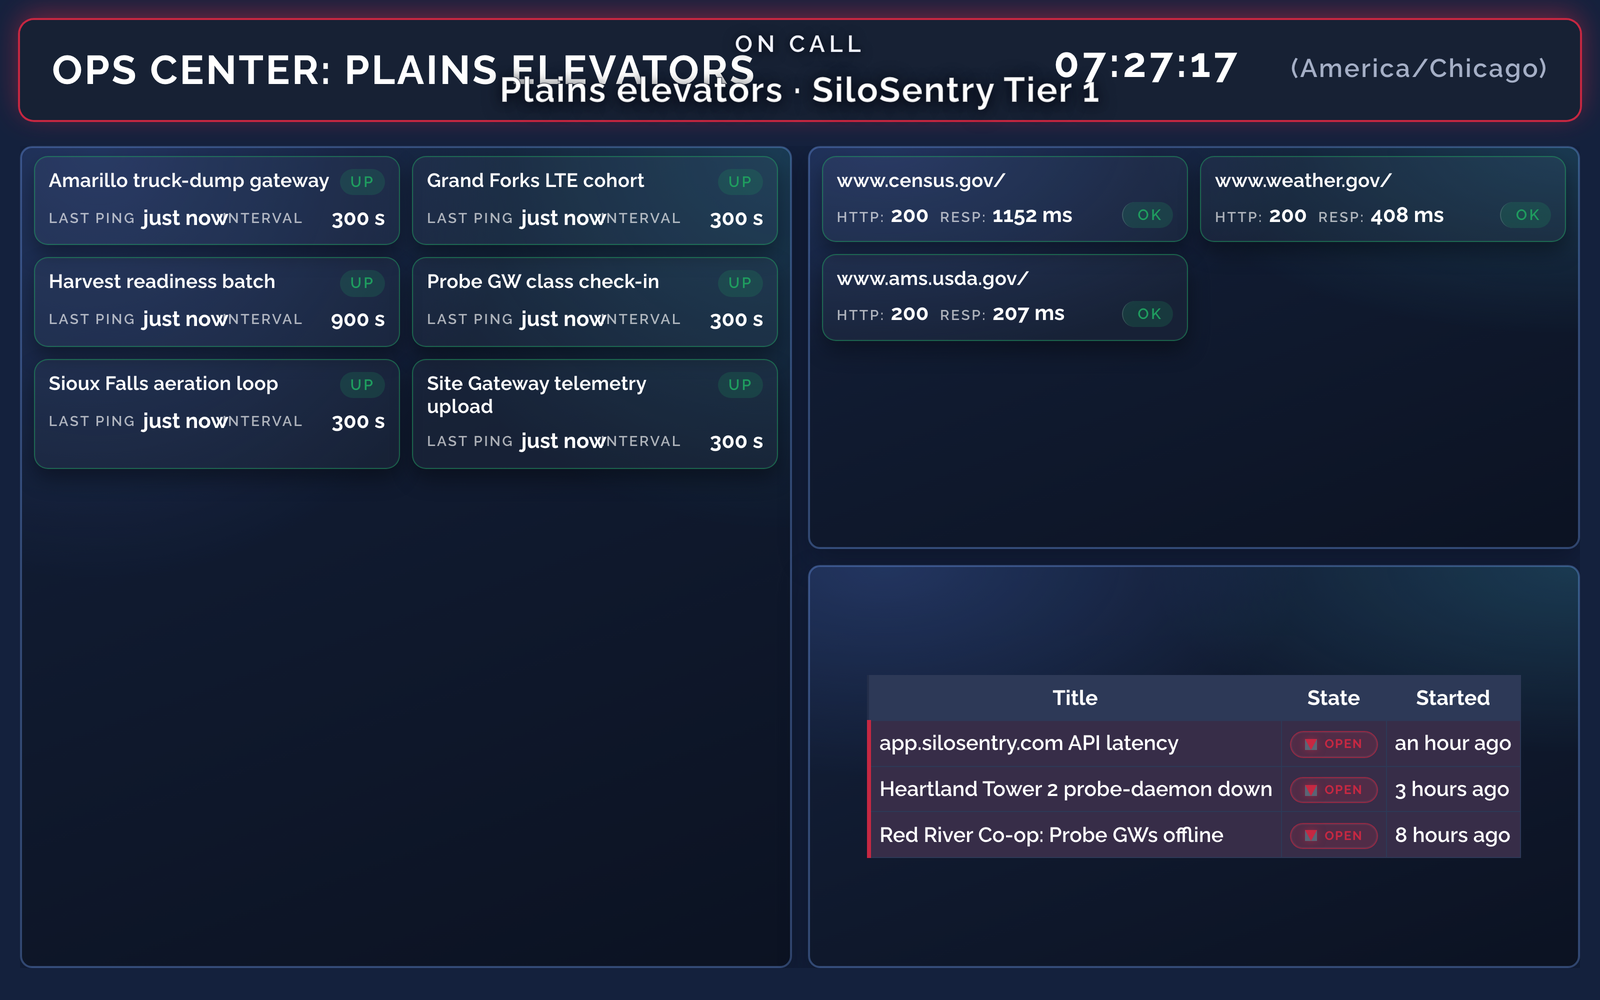
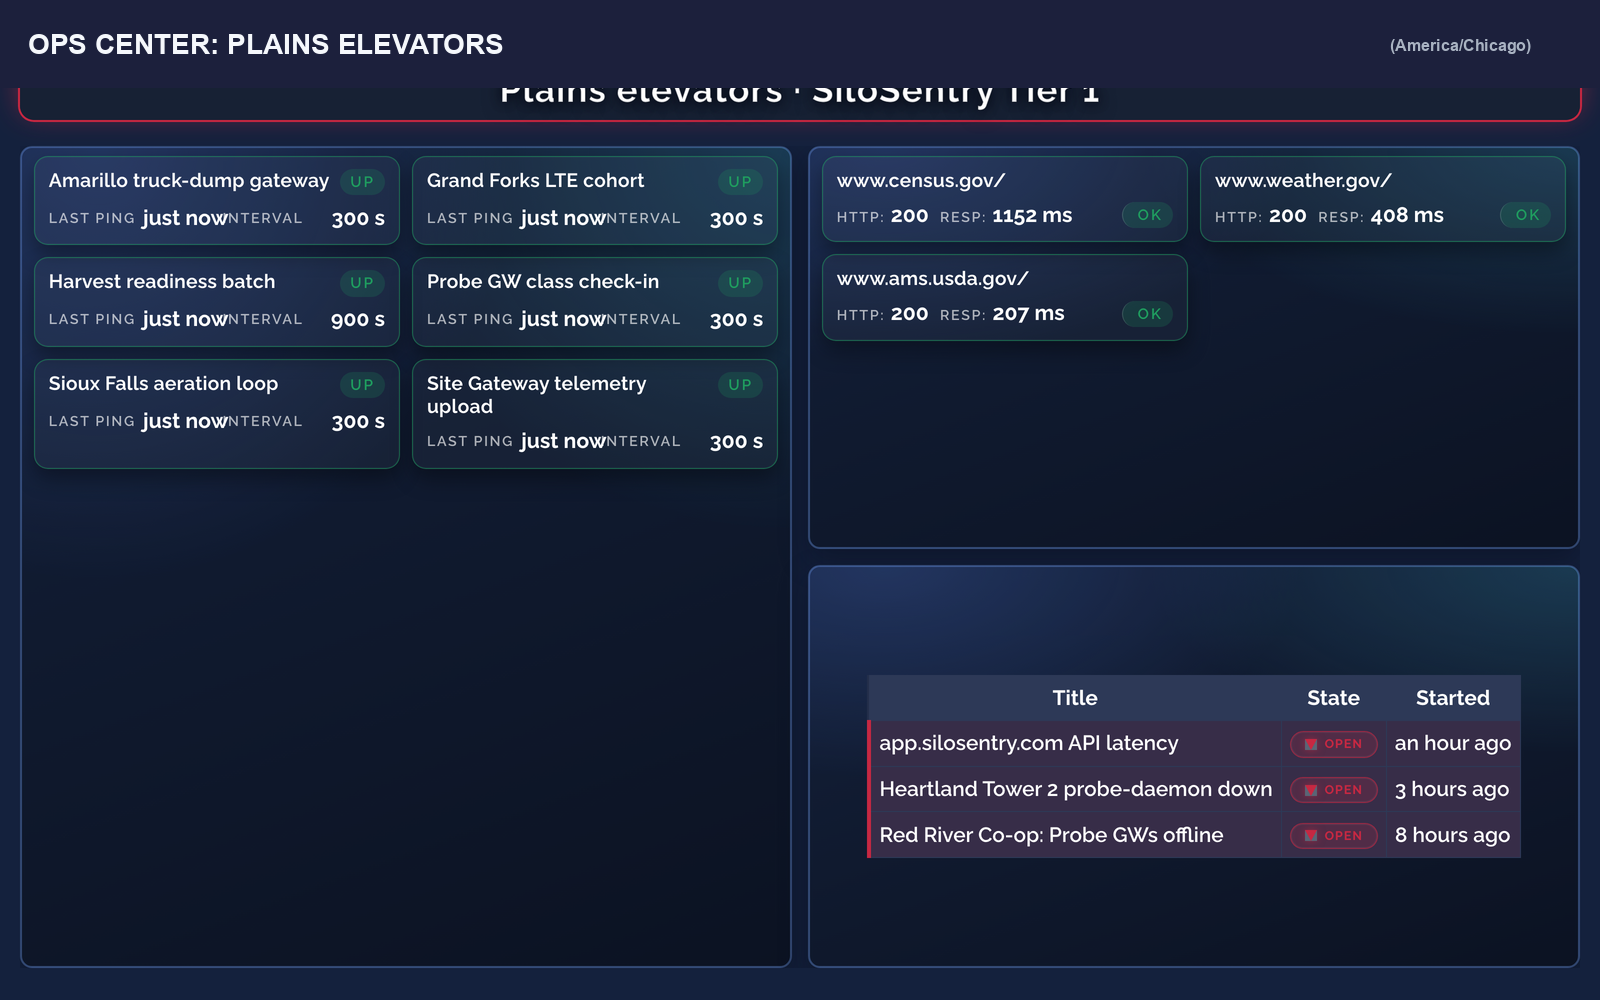
Fix marketing nav scroll and clean terminal/ops screenshots.
Sticky-header-aware in-page anchors, drop the cramped on-call strip from the ops wall shot, and replace the offline/Pingüino terminal capture with a clean shell view.

Changed region(s): [[0.0, 0.0, 1.0, 0.093]]

diff --git a/script.js b/script.js
@@ -95,6 +95,37 @@
 })();
 
 (() => {
+  // Sticky header: in-page nav should land below .top, not under it.
+  function headerOffset() {
+    const top = document.querySelector(".top");
+    return (top ? top.getBoundingClientRect().height : 0) + 8;
+  }
+
+  function scrollToHash(hash, { updateHistory = true } = {}) {
+    if (!hash || hash === "#") return false;
+    const id = decodeURIComponent(hash.replace(/^#/, ""));
+    const target = document.getElementById(id);
+    if (!target) return false;
+    const top = Math.max(0, window.scrollY + target.getBoundingClientRect().top - headerOffset());
+    window.scrollTo({ top, behavior: window.matchMedia("(prefers-reduced-motion: reduce)").matches ? "auto" : "smooth" });
+    if (updateHistory && window.location.hash !== `#${id}`) {
+      history.pushState(null, "", `#${id}`);
+    }
+    return true;
+  }
+
+  document.querySelectorAll('a[href^="#"]').forEach((link) => {
+    link.addEventListener("click", (event) => {
+      const href = link.getAttribute("href");
+      if (!href || href === "#") return;
+      if (scrollToHash(href)) event.preventDefault();
+    });
+  });
+
+  window.addEventListener("load", () => {
+    if (window.location.hash) scrollToHash(window.location.hash, { updateHistory: false });
+  });
+
   const reduce = window.matchMedia("(prefers-reduced-motion: reduce)").matches;
   if (!reduce) {
     const nodes = document.querySelectorAll(

diff --git a/index.html b/index.html
@@ -196,7 +196,7 @@
             <h3>A monitoring wall fed by your devices</h3>
             <p>
               Not a generic KPI collage. SiloSentry’s “Plains elevators” display is built from
-              their Dataplicity fleet and monitors: check-ins, incidents, on-call strip.
+              their Dataplicity fleet and monitors: check-ins, heartbeats, and open incidents.
             </p>
           </div>
           <figure class="shot beat__shot">

diff --git a/styles.css b/styles.css
@@ -71,6 +71,17 @@ code,
 }
 
 /* header */
+html {
+  scroll-behavior: smooth;
+  scroll-padding-top: 4.5rem;
+}
+
+@media (prefers-reduced-motion: reduce) {
+  html {
+    scroll-behavior: auto;
+  }
+}
+
 .top {
   position: sticky;
   top: 0;
@@ -152,6 +163,15 @@ code,
 
 .nav a:hover {
   color: var(--ink);
+}
+
+#orient,
+#devices,
+#company,
+#day,
+#map,
+#not-tools {
+  scroll-margin-top: 4.5rem;
 }
 
 .top__dp {
